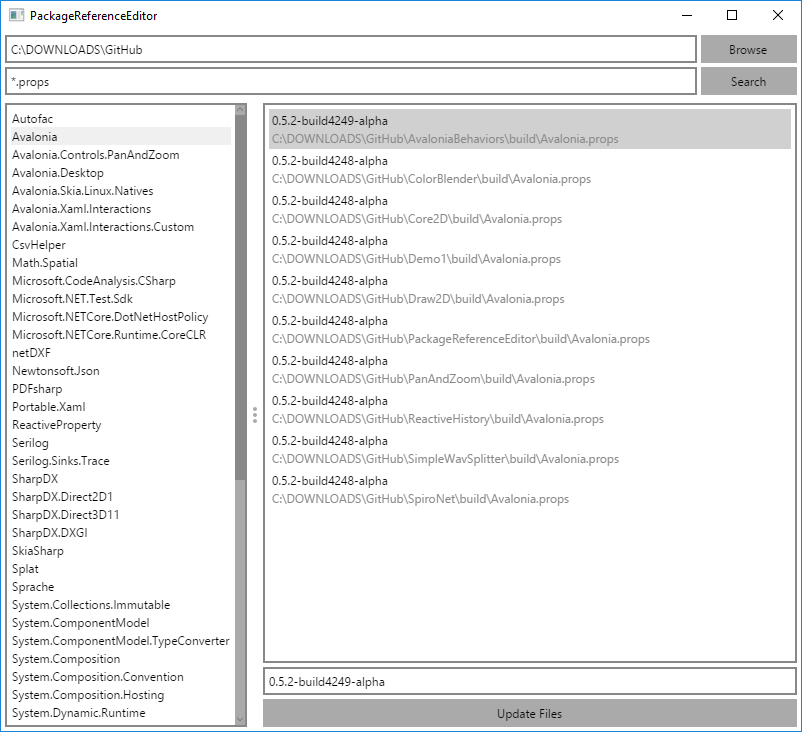
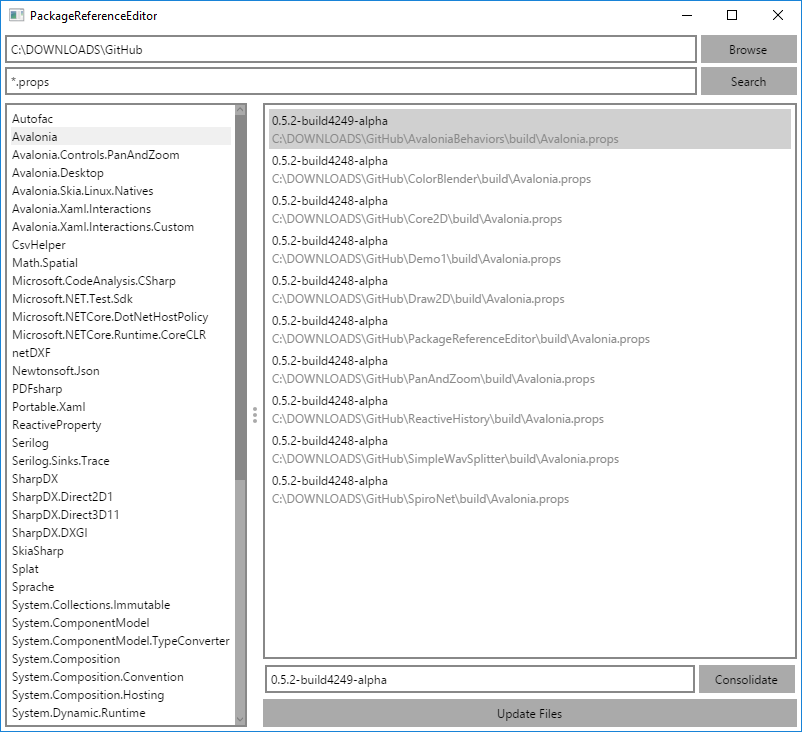
Refactored UpdaterResult

Changed region(s): [[0.3117, 0.9016, 0.9975, 0.9617]]

diff --git a/src/PackageReferenceEditor.Avalonia/MainWindow.xaml b/src/PackageReferenceEditor.Avalonia/MainWindow.xaml
@@ -1,16 +1,17 @@
 <Window xmlns="https://github.com/avaloniaui"
         xmlns:x="http://schemas.microsoft.com/winfx/2006/xaml"
+        xmlns:model="clr-namespace:PackageReferenceEditor;assembly=PackageReferenceEditor"
         Title="PackageReferenceEditor" Height="700" Width="800"
         UseLayoutRounding="True">
     <Grid ColumnDefinitions="250,8,*" RowDefinitions="Auto,*">
         <Grid RowDefinitions="Auto,Auto" ColumnDefinitions="*,100" Margin="2" Grid.Row="0" Grid.Column="0" Grid.ColumnSpan="3">
             <TextBox x:Name="textSearchPath" Text="C:\DOWNLOADS\GitHub" Margin="2" Grid.Row="0" Grid.Column="0"/>
-            <Button x:Name="buttonBrowse" Content="Browse" Margin="2" Grid.Row="0" Grid.Column="1"/>
+            <Button x:Name="buttonBrowse" Content="Browse" Click="buttonBrowse_Click" Margin="2" Grid.Row="0" Grid.Column="1"/>
             <TextBox x:Name="textSearchPattern" Text="*.props" Margin="2" Grid.Row="1" Grid.Column="0"/>
-            <Button x:Name="buttonSearch" Content="Search" Margin="2" Grid.Row="1" Grid.Column="1"/>
+            <Button x:Name="buttonSearch" Content="Search" Click="buttonSearch_Click" Margin="2" Grid.Row="1" Grid.Column="1"/>
         </Grid>
         <Grid Margin="2" Grid.Row="1" Grid.Column="0">
-            <ListBox x:Name="groups" Items="{Binding GroupedReferences}" Margin="2">
+            <ListBox Items="{Binding GroupedReferences}" SelectedItem="{Binding CurrentReferences}" Margin="2">
                 <ListBox.DataTemplates>
                     <DataTemplate>
                         <TextBlock Text="{Binding Key}" Margin="1"/>
@@ -20,7 +21,7 @@
         </Grid>
         <GridSplitter Width="8" Grid.Row="1" Grid.Column="1"/>
         <Grid RowDefinitions="*,Auto,Auto" Margin="2" Grid.Row="1" Grid.Column="2">
-            <ListBox x:Name="references" Items="{Binding #groups.SelectedItem.Value}" Margin="2" Grid.Row="0">
+            <ListBox Items="{Binding CurrentReferences.Value}" SelectedItem="{Binding CurrentReference}" Margin="2" Grid.Row="0">
                 <ListBox.DataTemplates>
                     <DataTemplate>
                         <StackPanel Margin="2">
@@ -30,14 +31,11 @@
                     </DataTemplate>
                 </ListBox.DataTemplates>
             </ListBox>
-            <ContentPresenter Content="{Binding #references.SelectedItem}" Grid.Row="1">
-                <ContentPresenter.DataTemplates>
-                    <DataTemplate>
-                        <TextBox Text="{Binding Version}" Margin="2"/>
-                    </DataTemplate>
-                </ContentPresenter.DataTemplates>
-            </ContentPresenter>
-            <Button x:Name="buttonUpdate" Content="Update Files" Margin="2" Grid.Row="2"/>
+            <Grid RowDefinitions="Auto" ColumnDefinitions="*,100" Margin="2" Grid.Row="1">
+                <TextBox Text="{Binding CurrentReference.Version}" Margin="2" Grid.Row="0" Grid.Column="0"/>
+                <Button Content="Consolidate" Click="buttonConsolidate_Click" Margin="2" Grid.Row="0" Grid.Column="1"/>
+            </Grid>
+            <Button x:Name="buttonUpdate" Content="Update Files" Click="buttonUpdate_Click" Margin="2" Grid.Row="2"/>
         </Grid>
     </Grid>
 </Window>

diff --git a/src/PackageReferenceEditor.Avalonia/MainWindow.xaml.cs b/src/PackageReferenceEditor.Avalonia/MainWindow.xaml.cs
@@ -1,5 +1,4 @@
 using System;
-using System.Collections.Generic;
 using Avalonia;
 using Avalonia.Controls;
 using Avalonia.Interactivity;
@@ -9,30 +8,16 @@ namespace PackageReferenceEditor.Avalonia
 {
     public partial class MainWindow : Window
     {
-        private Button buttonBrowse;
-        private Button buttonSearch;
-        private Button buttonUpdate;
         private TextBox textSearchPath;
         private TextBox textSearchPattern;
-        private ListBox groups;
-        private ListBox references;
 
         public MainWindow()
         {
             this.InitializeComponent();
             this.AttachDevTools();
 
-            buttonBrowse = this.FindControl<Button>("buttonBrowse");
-            buttonSearch = this.FindControl<Button>("buttonSearch");
-            buttonUpdate = this.FindControl<Button>("buttonUpdate");
             textSearchPath = this.FindControl<TextBox>("textSearchPath");
             textSearchPattern = this.FindControl<TextBox>("textSearchPattern");
-            groups = this.FindControl<ListBox>("groups");
-            references = this.FindControl<ListBox>("references");
-
-            buttonBrowse.Click += buttonBrowse_Click;
-            buttonSearch.Click += buttonSearch_Click;
-            buttonUpdate.Click += buttonUpdate_Click;
         }
 
         private void InitializeComponent()
@@ -62,7 +47,32 @@ namespace PackageReferenceEditor.Avalonia
         {
             try
             {
-                DataContext = Updater.FindReferences(textSearchPath.Text, textSearchPattern.Text, new string[] { });
+                if (DataContext is UpdaterResult result)
+                {
+                    result.FindReferences(textSearchPath.Text, textSearchPattern.Text, new string[] { });
+                }
+            }
+            catch (Exception ex)
+            {
+                Console.WriteLine(ex.Message);
+                Console.WriteLine(ex.StackTrace);
+            }
+        }
+
+        private void buttonConsolidate_Click(object sender, RoutedEventArgs e)
+        {
+            try
+            {
+                if (DataContext is UpdaterResult result)
+                {
+                    foreach (var reference in result.CurrentReferences.Value)
+                    {
+                        if (reference != result.CurrentReference)
+                        {
+                            reference.Version = result.CurrentReference.Version;
+                        }
+                    }
+                }
             }
             catch (Exception ex)
             {
@@ -77,10 +87,7 @@ namespace PackageReferenceEditor.Avalonia
             {
                 if (DataContext is UpdaterResult result)
                 {
-                    if (groups.SelectedItem is KeyValuePair<string, List<PackageReference>> references)
-                    {
-                        Updater.UpdateVersions(references);
-                    }
+                    Updater.UpdateVersions(result.CurrentReferences);
                 }
             }
             catch (Exception ex)

diff --git a/src/PackageReferenceEditor/UpdaterResult.cs b/src/PackageReferenceEditor/UpdaterResult.cs
@@ -3,10 +3,42 @@ using System.Xml.Linq;
 
 namespace PackageReferenceEditor
 {
-    public class UpdaterResult
+    public class UpdaterResult : NotifyObject
     {
-        public IList<XDocument> Documents { get; set; }
-        public IList<PackageReference> References { get; set; }
-        public Dictionary<string, List<PackageReference>> GroupedReferences { get; set; }
+        private IList<XDocument> _documents;
+        private IList<PackageReference> _references;
+        private Dictionary<string, List<PackageReference>> _groupedReferences;
+        private KeyValuePair<string, List<PackageReference>> _currentReferences;
+        private PackageReference _currentReference;
+
+        public IList<XDocument> Documents
+        {
+            get => _documents;
+            set => Update(ref _documents, value);
+        }
+
+        public IList<PackageReference> References
+        {
+            get => _references;
+            set => Update(ref _references, value);
+        }
+
+        public Dictionary<string, List<PackageReference>> GroupedReferences
+        {
+            get => _groupedReferences;
+            set => Update(ref _groupedReferences, value);
+        }
+
+        public KeyValuePair<string, List<PackageReference>> CurrentReferences
+        {
+            get => _currentReferences;
+            set => Update(ref _currentReferences, value);
+        }
+
+        public PackageReference CurrentReference
+        {
+            get => _currentReference;
+            set => Update(ref _currentReference, value);
+        }
     }
 }

diff --git a/src/PackageReferenceEditor/Updater.cs b/src/PackageReferenceEditor/Updater.cs
@@ -47,19 +47,25 @@ namespace PackageReferenceEditor
             }
         }
 
-        public static UpdaterResult FindReferences(string searchPath, string searchPattern, IEnumerable<string> ignoredPaths)
+        public static UpdaterResult FindReferences(this UpdaterResult updater, string searchPath, string searchPattern, IEnumerable<string> ignoredPaths)
         {
-            var updater = new UpdaterResult()
-            {
-                Documents = new List<XDocument>(),
-                References = new List<PackageReference>()
-            };
-
             FindReferences(searchPath, searchPattern, ignoredPaths, updater.References, updater.Documents);
 
             updater.GroupedReferences = updater.References.GroupBy(x => x.Name).OrderBy(x => x.Key).ToDictionary(x => x.Key, x => x.ToList());
+            updater.CurrentReferences = updater.GroupedReferences.FirstOrDefault();
+            updater.CurrentReference = updater.CurrentReferences.Value.FirstOrDefault();
 
             return updater;
+        }
+
+        public static UpdaterResult FindReferences(string searchPath, string searchPattern, IEnumerable<string> ignoredPaths)
+        {
+            return new UpdaterResult()
+            {
+                Documents = new List<XDocument>(),
+                References = new List<PackageReference>()
+            }
+            .FindReferences(searchPath, searchPattern, ignoredPaths);
         }
 
         public static void PrintVersions(this UpdaterResult result)

diff --git a/src/PackageReferenceEditor.Avalonia/App.xaml.cs b/src/PackageReferenceEditor.Avalonia/App.xaml.cs
@@ -1,4 +1,6 @@
 using System;
+using System.Collections.Generic;
+using System.Xml.Linq;
 using Avalonia;
 using Avalonia.Logging.Serilog;
 using Avalonia.Markup.Xaml;
@@ -27,8 +29,11 @@ namespace PackageReferenceEditor.Avalonia
                 var app = new App();
                 AppBuilder.Configure(app)
                     .UsePlatformDetect()
-                    .SetupWithoutStarting();
-                app.Start();
+                    .Start<MainWindow>(() => new UpdaterResult()
+                    {
+                        Documents = new List<XDocument>(),
+                        References = new List<PackageReference>()
+                    });
             }
             catch (Exception ex)
             {
@@ -49,13 +54,6 @@ namespace PackageReferenceEditor.Avalonia
         public override void Initialize()
         {
             AvaloniaXamlLoader.Load(this);
-        }
-
-        public void Start()
-        {
-            var window = new MainWindow();
-            window.ShowDialog();
-            Run(window);
         }
     }
 }
